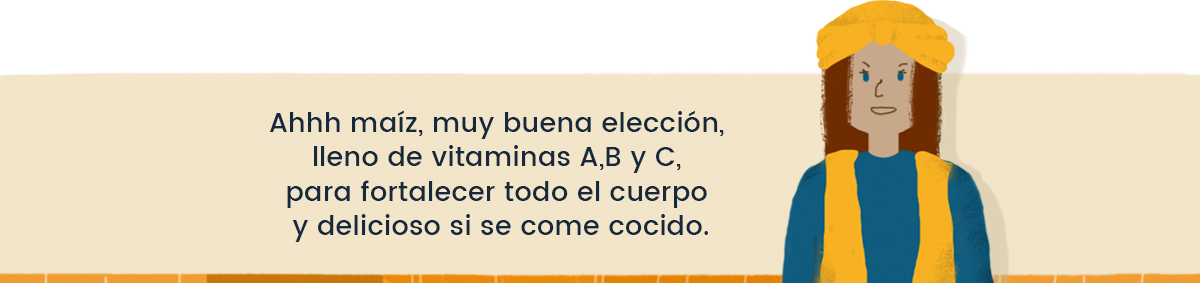
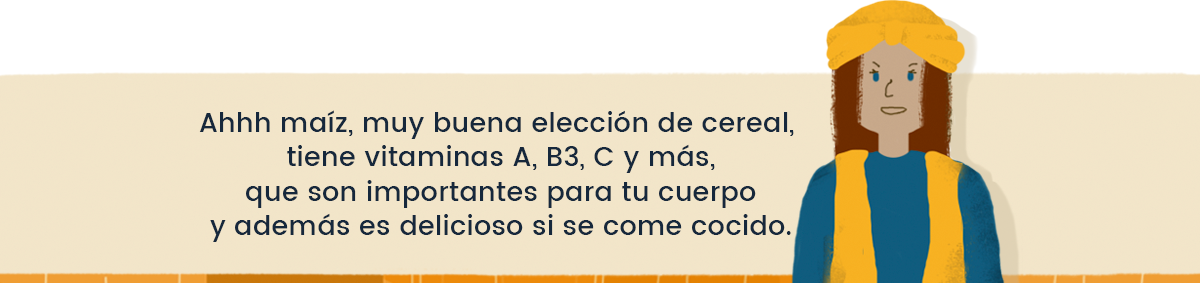
change dialogue on sharqii grains

Changed region(s): [[0.1542, 0.0, 0.8633, 1.0], [0.2158, 0.5088, 0.6167, 0.6219]]

diff --git a/scenarios/sharqii/grains.py b/scenarios/sharqii/grains.py
@@ -45,7 +45,7 @@ class Grain:
         self.interact_4 = Prompt(self.screen,
                                  self.clock,
                                  (1867, 480),
-                                 "quinoa.png",
+                                 "wheat.png",
                                  "sharqii/grains/prompts",
                                  (400, 600))
         self.interact_5 = Prompt(self.screen,
@@ -81,7 +81,7 @@ class Grain:
             "3" : utils.load_image("d3.png", "sharqii/grains/"),
             "4" : utils.load_image("oat.png", "sharqii/grains/"),
             "5" : utils.load_image("maize.png", "sharqii/grains/"),
-            "6" : utils.load_image("quinoa.png", "sharqii/grains/"),
+            "6" : utils.load_image("wheat.png", "sharqii/grains/"),
             "7" : utils.load_image("rice.png", "sharqii/grains/"),
             "8" : utils.load_image("beans.png", "sharqii/grains/"),
             "9" : utils.load_image("key.png", "sharqii/grains/")
